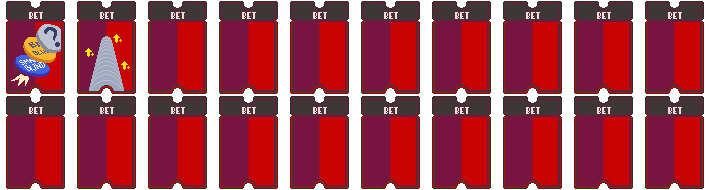
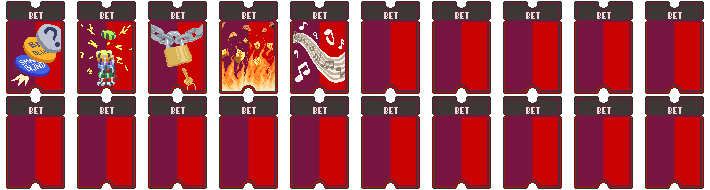
feat: add more art lol

Changed region(s): [[0.093, 0.1316, 0.4958, 0.5], [0.2479, 0.3684, 0.2789, 0.4474]]

diff --git a/assets_scaler.py b/assets_scaler.py
@@ -5,9 +5,9 @@ from PIL import Image
 import pathlib
 
 
-asset_dir = str(pathlib.Path(__file__).parent.resolve()) + r"\\assets\\"
-input_dir = asset_dir + r"\1x"
-upscale_dir = asset_dir + r"\2x"
+asset_dir = str(pathlib.Path(__file__).parent.resolve()) + r"/assets/"
+input_dir = asset_dir + r"1x"
+upscale_dir = asset_dir + r"2x"
 
 def average_color_of_neighbors(img, x, y):
     width, height = img.size
@@ -71,7 +71,8 @@ def clear_directory(directory):
 def process_and_upscale(input_path, input_directory, upscale_directory):
     relative_path = os.path.relpath(input_path, input_directory)
     output_path = os.path.join(upscale_directory, relative_path)
-
+    if(not str(input_path).endswith(".png")):
+        return
     os.makedirs(os.path.dirname(output_path), exist_ok=True)
 
     print("Processing image: " + input_path)
